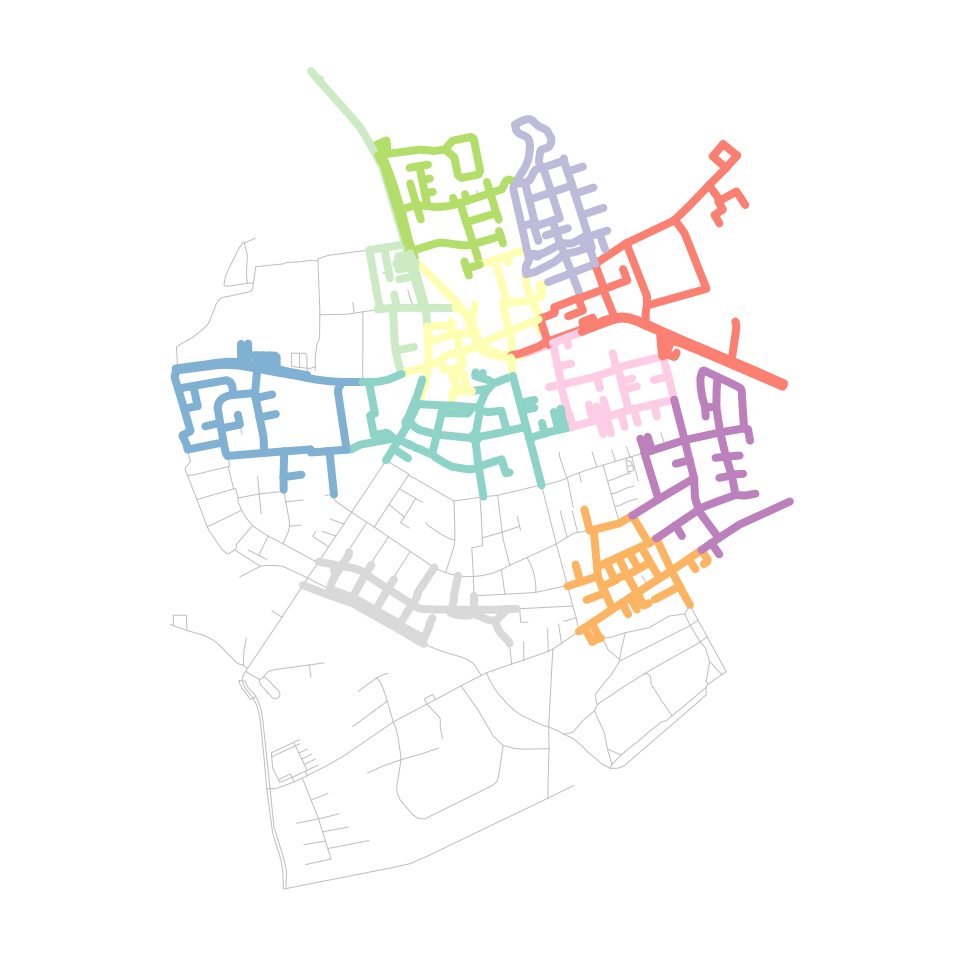
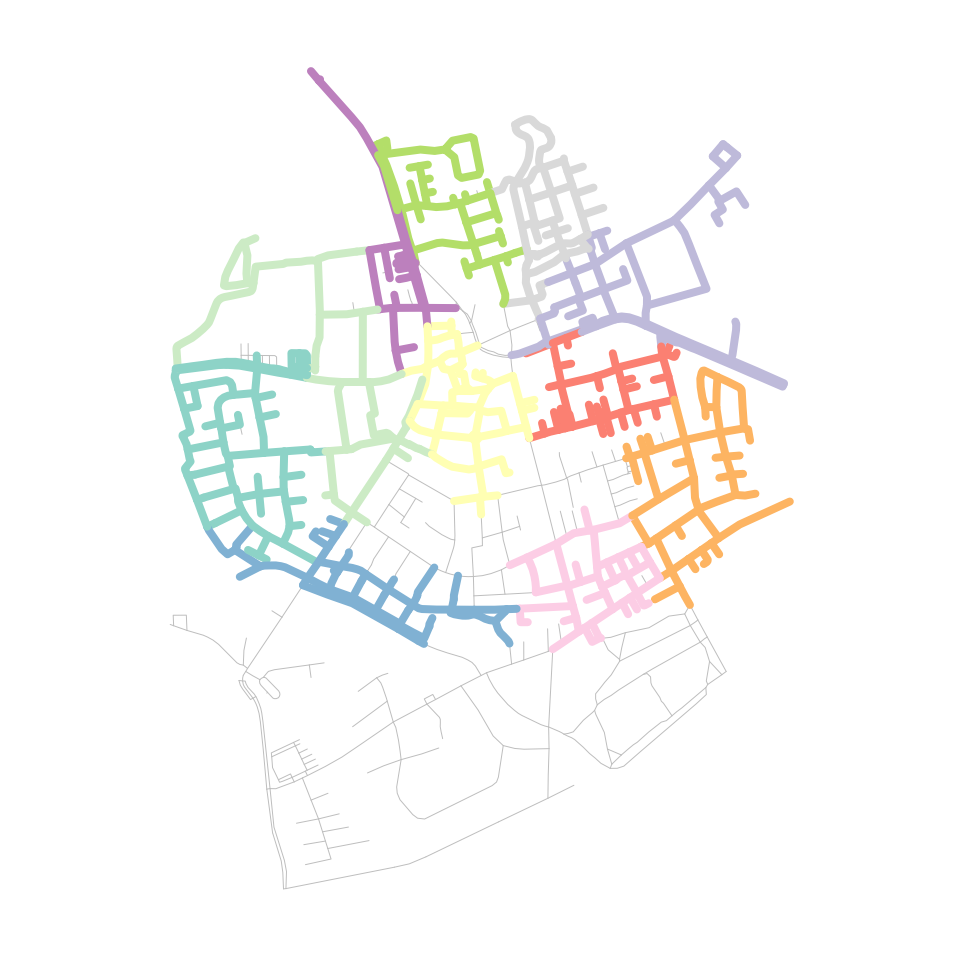
Built site for sfnetworks: 0.6.4@2eb08cf

diff --git a/articles/sfn02_preprocess_clean.html b/articles/sfn02_preprocess_clean.html
@@ -99,7 +99,7 @@
     <div class="page-header toc-ignore">
       <h1 data-toc-skip>2. Network pre-processing and cleaning</h1>
             
-            <h4 data-toc-skip class="date">2024-04-09</h4>
+            <h4 data-toc-skip class="date">2024-04-10</h4>
       
       <small class="dont-index">Source: <a href="https://github.com/luukvdmeer/sfnetworks/blob/HEAD/vignettes/sfn02_preprocess_clean.Rmd" class="external-link"><code>vignettes/sfn02_preprocess_clean.Rmd</code></a></small>
       <div class="hidden name"><code>sfn02_preprocess_clean.Rmd</code></div>
@@ -440,12 +440,12 @@ different combination techniques when simplifying the network.</p>
 <span><span class="co">#&gt; # A tibble: 15 × 7</span></span>
 <span><span class="co">#&gt;    from    to              x  flow type    foo bar  </span></span>
 <span><span class="co">#&gt;   &lt;int&gt; &lt;int&gt;   &lt;LINESTRING&gt; &lt;int&gt; &lt;chr&gt; &lt;int&gt; &lt;chr&gt;</span></span>
-<span><span class="co">#&gt; 1    10     9 (6 1.2, 5.8 1)     7 path      8 c    </span></span>
-<span><span class="co">#&gt; 2    11    10 (6.2 1, 6 1.2)     8 path      4 a    </span></span>
-<span><span class="co">#&gt; 3     9    12 (5.8 1, 6 0.8)     6 path     10 w    </span></span>
-<span><span class="co">#&gt; 4    12    11 (6 0.8, 6.2 1)     3 path     14 i    </span></span>
-<span><span class="co">#&gt; 5    11    15   (6.2 1, 7 1)     1 path      3 l    </span></span>
-<span><span class="co">#&gt; 6    10    13   (6 1.2, 6 2)     1 path      6 u    </span></span>
+<span><span class="co">#&gt; 1    10     9 (6 1.2, 5.8 1)     4 path      3 c    </span></span>
+<span><span class="co">#&gt; 2    11    10 (6.2 1, 6 1.2)     5 path     13 x    </span></span>
+<span><span class="co">#&gt; 3     9    12 (5.8 1, 6 0.8)    10 path      5 t    </span></span>
+<span><span class="co">#&gt; 4    12    11 (6 0.8, 6.2 1)    10 path      1 k    </span></span>
+<span><span class="co">#&gt; 5    11    15   (6.2 1, 7 1)     5 path      6 i    </span></span>
+<span><span class="co">#&gt; 6    10    13   (6 1.2, 6 2)     3 path     11 m    </span></span>
 <span><span class="co">#&gt; # ℹ 9 more rows</span></span>
 <span><span class="co">#&gt; #</span></span>
 <span><span class="co">#&gt; # A tibble: 15 × 1</span></span>
@@ -470,8 +470,8 @@ different combination techniques when simplifying the network.</p>
 <span><span class="co">#&gt; # A tibble: 2 × 7</span></span>
 <span><span class="co">#&gt;    from    to               x  flow type    foo bar  </span></span>
 <span><span class="co">#&gt;   &lt;int&gt; &lt;int&gt;    &lt;LINESTRING&gt; &lt;int&gt; &lt;chr&gt; &lt;int&gt; &lt;chr&gt;</span></span>
-<span><span class="co">#&gt; 1     6     7      (4 3, 4 2)     1 path      5 x    </span></span>
-<span><span class="co">#&gt; 2     6     7 (4 3, 5 2, 4 2)     7 road     11 t</span></span></code></pre>
+<span><span class="co">#&gt; 1     6     7      (4 3, 4 2)     5 path     15 q    </span></span>
+<span><span class="co">#&gt; 2     6     7 (4 3, 5 2, 4 2)     8 road     14 w</span></span></code></pre>
 <div class="sourceCode" id="cb10"><pre class="downlit sourceCode r">
 <code class="sourceCode R"><span><span class="co"># Define how we want to combine the attributes.</span></span>
 <span><span class="co"># For the flows:</span></span>
@@ -502,7 +502,7 @@ different combination techniques when simplifying the network.</p>
 <span><span class="co">#&gt; # A tibble: 1 × 6</span></span>
 <span><span class="co">#&gt;    from    to            x  flow type    .tidygraph_edge_index</span></span>
 <span><span class="co">#&gt;   &lt;int&gt; &lt;int&gt; &lt;LINESTRING&gt; &lt;dbl&gt; &lt;chr&gt;   &lt;list&gt;               </span></span>
-<span><span class="co">#&gt; 1     6     7   (4 3, 4 2)     8 unknown &lt;int [2]&gt;</span></span></code></pre>
+<span><span class="co">#&gt; 1     6     7   (4 3, 4 2)    13 unknown &lt;int [2]&gt;</span></span></code></pre>
 <div class="sourceCode" id="cb11"><pre class="downlit sourceCode r">
 <code class="sourceCode R"><span><span class="fu"><a href="https://rdrr.io/r/graphics/plot.default.html" class="external-link">plot</a></span><span class="op">(</span><span class="fu"><a href="https://r-spatial.github.io/sf/reference/st_geometry.html" class="external-link">st_geometry</a></span><span class="op">(</span><span class="va">net</span>, <span class="st">"edges"</span><span class="op">)</span>, col <span class="op">=</span> <span class="fu">edge_colors</span><span class="op">(</span><span class="va">net</span><span class="op">)</span>, lwd <span class="op">=</span> <span class="fl">4</span><span class="op">)</span></span>
 <span><span class="fu"><a href="https://rdrr.io/r/graphics/plot.default.html" class="external-link">plot</a></span><span class="op">(</span><span class="fu"><a href="https://r-spatial.github.io/sf/reference/st_geometry.html" class="external-link">st_geometry</a></span><span class="op">(</span><span class="va">net</span>, <span class="st">"nodes"</span><span class="op">)</span>, pch <span class="op">=</span> <span class="fl">20</span>, cex <span class="op">=</span> <span class="fl">1.5</span>, add <span class="op">=</span> <span class="cn">TRUE</span><span class="op">)</span></span>
@@ -636,9 +636,9 @@ columns are not attributes!</p>
 <span><span class="co">#&gt;    from    to               x  flow type    .tidygraph_edge_index</span></span>
 <span><span class="co">#&gt;   &lt;int&gt; &lt;int&gt;    &lt;LINESTRING&gt; &lt;dbl&gt; &lt;chr&gt;                   &lt;int&gt;</span></span>
 <span><span class="co">#&gt; 1     1     2 (0 1, 1 1, 2 1)     5 road                        1</span></span>
-<span><span class="co">#&gt; 2     2     3      (2 1, 3 1)     8 road                        2</span></span>
-<span><span class="co">#&gt; 3     8     9      (4 3, 4 2)     8 unknown                     5</span></span>
-<span><span class="co">#&gt; 4     9     4      (4 2, 4 1)     4 road                        6</span></span></code></pre>
+<span><span class="co">#&gt; 2     2     3      (2 1, 3 1)    10 road                        2</span></span>
+<span><span class="co">#&gt; 3     8     9      (4 3, 4 2)    13 unknown                     5</span></span>
+<span><span class="co">#&gt; 4     9     4      (4 2, 4 1)     9 road                        6</span></span></code></pre>
 <div class="sourceCode" id="cb15"><pre class="downlit sourceCode r">
 <code class="sourceCode R"><span></span>
 <span><span class="co"># Define how we want to combine the attributes.</span></span>
@@ -668,8 +668,8 @@ columns are not attributes!</p>
 <span><span class="co">#&gt; # A tibble: 2 × 6</span></span>
 <span><span class="co">#&gt;    from    to  flow type    .tidygraph_edge_index                    x</span></span>
 <span><span class="co">#&gt;   &lt;int&gt; &lt;int&gt; &lt;dbl&gt; &lt;chr&gt;   &lt;list&gt;                        &lt;LINESTRING&gt;</span></span>
-<span><span class="co">#&gt; 1     1     2    13 road    &lt;int [2]&gt;             (0 1, 1 1, 2 1, 3 1)</span></span>
-<span><span class="co">#&gt; 2     7     3    12 unknown &lt;int [2]&gt;                  (4 3, 4 2, 4 1)</span></span></code></pre>
+<span><span class="co">#&gt; 1     1     2    15 road    &lt;int [2]&gt;             (0 1, 1 1, 2 1, 3 1)</span></span>
+<span><span class="co">#&gt; 2     7     3    22 unknown &lt;int [2]&gt;                  (4 3, 4 2, 4 1)</span></span></code></pre>
 <p>Secondly, it is possible to only remove those pseudo nodes for which
 attributes among their incident edges are equal. To do this, set
 <code>require_equal = TRUE</code>. Optionally, you can provide a list of
@@ -788,9 +788,9 @@ for the sake of completeness, we will still show it:</p>
 <span><span class="co">#&gt; # A tibble: 14 × 6</span></span>
 <span><span class="co">#&gt;    from    to  flow type  .tidygraph_edge_index            x</span></span>
 <span><span class="co">#&gt;   &lt;int&gt; &lt;int&gt; &lt;dbl&gt; &lt;chr&gt; &lt;list&gt;                &lt;LINESTRING&gt;</span></span>
-<span><span class="co">#&gt; 1     2     3     8 road  &lt;int [1]&gt;               (3 1, 4 1)</span></span>
-<span><span class="co">#&gt; 2     3     4     8 path  &lt;int [1]&gt;             (4 1, 5.8 1)</span></span>
-<span><span class="co">#&gt; 3     5     2     4 road  &lt;int [1]&gt;               (3 2, 3 1)</span></span>
+<span><span class="co">#&gt; 1     2     3    10 road  &lt;int [1]&gt;               (3 1, 4 1)</span></span>
+<span><span class="co">#&gt; 2     3     4     7 path  &lt;int [1]&gt;             (4 1, 5.8 1)</span></span>
+<span><span class="co">#&gt; 3     5     2     5 road  &lt;int [1]&gt;               (3 2, 3 1)</span></span>
 <span><span class="co">#&gt; # ℹ 11 more rows</span></span></code></pre>
 <p>The combination of the cluster index and the component index can now
 be used to define the groups of nodes to be contracted. Nodes that form
@@ -859,8 +859,8 @@ columns are not attributes!</p>
 <span><span class="co">#&gt;         x .tidygraph_node_index   cls   cmp is_priority</span></span>
 <span><span class="co">#&gt;   &lt;POINT&gt;                 &lt;int&gt; &lt;int&gt; &lt;int&gt; &lt;lgl&gt;      </span></span>
 <span><span class="co">#&gt; 1 (5.8 1)                     5     4     1 FALSE      </span></span>
-<span><span class="co">#&gt; 2 (6 0.8)                    11     4     1 TRUE       </span></span>
-<span><span class="co">#&gt; 3 (6 1.2)                    12     4     1 TRUE       </span></span>
+<span><span class="co">#&gt; 2 (6 0.8)                    11     4     1 FALSE      </span></span>
+<span><span class="co">#&gt; 3 (6 1.2)                    12     4     1 FALSE      </span></span>
 <span><span class="co">#&gt; 4 (6.2 1)                    14     4     1 TRUE</span></span></code></pre>
 <div class="sourceCode" id="cb22"><pre class="downlit sourceCode r">
 <code class="sourceCode R"><span><span class="co"># Define how we want to combine the attributes.</span></span>

diff --git a/articles/sfn05_morphers.html b/articles/sfn05_morphers.html
@@ -99,7 +99,7 @@
     <div class="page-header toc-ignore">
       <h1 data-toc-skip>5. Spatial morphers</h1>
             
-            <h4 data-toc-skip class="date">2024-04-09</h4>
+            <h4 data-toc-skip class="date">2024-04-10</h4>
       
       <small class="dont-index">Source: <a href="https://github.com/luukvdmeer/sfnetworks/blob/HEAD/vignettes/sfn05_morphers.Rmd" class="external-link"><code>vignettes/sfn05_morphers.Rmd</code></a></small>
       <div class="hidden name"><code>sfn05_morphers.Rmd</code></div>
@@ -184,9 +184,9 @@ is assigned to, and automatically merge those changes back into the
 <span><span class="co">#&gt; # A tibble: 851 × 6</span></span>
 <span><span class="co">#&gt;    from    to name                  type                          geometry group</span></span>
 <span><span class="co">#&gt;   &lt;int&gt; &lt;int&gt; &lt;chr&gt;                 &lt;fct&gt;                 &lt;LINESTRING [m]&gt; &lt;int&gt;</span></span>
-<span><span class="co">#&gt; 1     1     2 Havixbecker Strasse   residential (4151491 3207923, 4151474…     2</span></span>
+<span><span class="co">#&gt; 1     1     2 Havixbecker Strasse   residential (4151491 3207923, 4151474…    17</span></span>
 <span><span class="co">#&gt; 2     3     4 Pienersallee          secondary   (4151398 3207777, 4151390…     2</span></span>
-<span><span class="co">#&gt; 3     5     6 Schulte-Bernd-Strasse residential (4151408 3207539, 4151417…     1</span></span>
+<span><span class="co">#&gt; 3     5     6 Schulte-Bernd-Strasse residential (4151408 3207539, 4151417…     2</span></span>
 <span><span class="co">#&gt; # ℹ 848 more rows</span></span></code></pre>
 <div class="sourceCode" id="cb3"><pre class="downlit sourceCode r">
 <code class="sourceCode R"><span><span class="co"># The algorithm detected 34 communities.</span></span>
@@ -195,7 +195,7 @@ is assigned to, and automatically merge those changes back into the
 <span>  <span class="fu"><a href="https://dplyr.tidyverse.org/reference/pull.html" class="external-link">pull</a></span><span class="op">(</span><span class="va">group</span><span class="op">)</span> <span class="op"><a href="https://magrittr.tidyverse.org/reference/pipe.html" class="external-link">%&gt;%</a></span></span>
 <span>  <span class="fu"><a href="https://rdrr.io/r/base/unique.html" class="external-link">unique</a></span><span class="op">(</span><span class="op">)</span> <span class="op"><a href="https://magrittr.tidyverse.org/reference/pipe.html" class="external-link">%&gt;%</a></span></span>
 <span>  <span class="fu"><a href="https://rdrr.io/r/base/length.html" class="external-link">length</a></span><span class="op">(</span><span class="op">)</span></span>
-<span><span class="co">#&gt; [1] 34</span></span></code></pre></div>
+<span><span class="co">#&gt; [1] 33</span></span></code></pre></div>
 <p>In all grouping functions in <code>tidygraph</code>, the group index
 <code>1</code> belongs the largest group, the index <code>2</code> to
 the second largest group, et cetera. Lets plot only the first third of
@@ -622,8 +622,8 @@ to the geometry of the first set member.</p>
 <span><span class="co">#&gt; # A tibble: 2 × 6</span></span>
 <span><span class="co">#&gt;    from    to name         type                                   geometry  flow</span></span>
 <span><span class="co">#&gt;   &lt;int&gt; &lt;int&gt; &lt;chr&gt;        &lt;fct&gt;                          &lt;LINESTRING [m]&gt; &lt;int&gt;</span></span>
-<span><span class="co">#&gt; 1   118   119 NA           service (4150716 3207080, 4150715 3207108, 415…    98</span></span>
-<span><span class="co">#&gt; 2   118   119 Pienersallee service      (4150716 3207080, 4150752 3207067)    28</span></span></code></pre>
+<span><span class="co">#&gt; 1   118   119 NA           service (4150716 3207080, 4150715 3207108, 415…    95</span></span>
+<span><span class="co">#&gt; 2   118   119 Pienersallee service      (4150716 3207080, 4150752 3207067)    43</span></span></code></pre>
 <div class="sourceCode" id="cb16"><pre class="downlit sourceCode r">
 <code class="sourceCode R"><span><span class="co"># Simplify the network.</span></span>
 <span><span class="co"># We summarise the flow attribute by taking the sum of the merged edge flows.</span></span>
@@ -647,7 +647,7 @@ to the geometry of the first set member.</p>
 <span><span class="co">#&gt; # A tibble: 1 × 7</span></span>
 <span><span class="co">#&gt;    from    to name  type                    geometry  flow .tidygraph_edge_index</span></span>
 <span><span class="co">#&gt;   &lt;int&gt; &lt;int&gt; &lt;chr&gt; &lt;fct&gt;           &lt;LINESTRING [m]&gt; &lt;dbl&gt; &lt;list&gt;               </span></span>
-<span><span class="co">#&gt; 1   118   119 NA    servi… (4150716 3207080, 415071…   126 &lt;int [2]&gt;</span></span></code></pre>
+<span><span class="co">#&gt; 1   118   119 NA    servi… (4150716 3207080, 415071…   138 &lt;int [2]&gt;</span></span></code></pre>
 </div>
 <div class="section level3">
 <h3 id="to_spatial_smooth">to_spatial_smooth<a class="anchor" aria-label="anchor" href="#to_spatial_smooth"></a>
@@ -771,12 +771,12 @@ example just to get an idea of how this would work:</p>
 <span><span class="co">#&gt; # A tibble: 701 × 3</span></span>
 <span><span class="co">#&gt;            geometry building post_code</span></span>
 <span><span class="co">#&gt;         &lt;POINT [m]&gt; &lt;lgl&gt;        &lt;dbl&gt;</span></span>
-<span><span class="co">#&gt; 1 (4151491 3207923) FALSE           NA</span></span>
+<span><span class="co">#&gt; 1 (4151491 3207923) TRUE          1020</span></span>
 <span><span class="co">#&gt; 2 (4151474 3207946) FALSE           NA</span></span>
 <span><span class="co">#&gt; 3 (4151398 3207777) TRUE          1020</span></span>
 <span><span class="co">#&gt; 4 (4151370 3207673) FALSE           NA</span></span>
 <span><span class="co">#&gt; 5 (4151408 3207539) FALSE           NA</span></span>
-<span><span class="co">#&gt; 6 (4151421 3207592) FALSE           NA</span></span>
+<span><span class="co">#&gt; 6 (4151421 3207592) TRUE          1020</span></span>
 <span><span class="co">#&gt; # ℹ 695 more rows</span></span>
 <span><span class="co">#&gt; #</span></span>
 <span><span class="co">#&gt; # A tibble: 851 × 5</span></span>
@@ -833,7 +833,7 @@ requires a geographic CRS for that.</p>
 <span><span class="co">#&gt; # A tibble: 701 × 2</span></span>
 <span><span class="co">#&gt;            geometry building</span></span>
 <span><span class="co">#&gt;         &lt;POINT [m]&gt; &lt;lgl&gt;   </span></span>
-<span><span class="co">#&gt; 1 (4151491 3207923) FALSE   </span></span>
+<span><span class="co">#&gt; 1 (4151491 3207923) TRUE    </span></span>
 <span><span class="co">#&gt; 2 (4151474 3207946) FALSE   </span></span>
 <span><span class="co">#&gt; 3 (4151398 3207777) TRUE    </span></span>
 <span><span class="co">#&gt; # ℹ 698 more rows</span></span></code></pre>

diff --git a/news/index.html b/news/index.html
@@ -70,7 +70,7 @@
     </div>
 
     <div class="section level2">
-<h2 class="page-header" data-toc-text="0.6.4" id="sfnetworks-v064">sfnetworks v0.6.4<a class="anchor" aria-label="anchor" href="#sfnetworks-v064"></a></h2>
+<h2 class="page-header" data-toc-text="0.6.4" id="sfnetworks-v064">sfnetworks v0.6.4<small>2024-04-09</small><a class="anchor" aria-label="anchor" href="#sfnetworks-v064"></a></h2>
 <div class="section level4">
 <h4 id="new-features-0-6-4">New features<a class="anchor" aria-label="anchor" href="#new-features-0-6-4"></a></h4>
 <ul><li>The <code><a href="../reference/sfnetwork.html">sfnetwork()</a></code> construction function now has an argument <code>message</code> which can be set to <code>FALSE</code> when the network validity checks should not print informational messages to the console. Refs <a href="https://github.com/luukvdmeer/sfnetworks/issues/261" class="external-link">#261</a>.</li>

diff --git a/articles/sfn03_join_filter.html b/articles/sfn03_join_filter.html
@@ -99,7 +99,7 @@
     <div class="page-header toc-ignore">
       <h1 data-toc-skip>3. Spatial joins and filters</h1>
             
-            <h4 data-toc-skip class="date">2024-04-09</h4>
+            <h4 data-toc-skip class="date">2024-04-10</h4>
       
       <small class="dont-index">Source: <a href="https://github.com/luukvdmeer/sfnetworks/blob/HEAD/vignettes/sfn03_join_filter.Rmd" class="external-link"><code>vignettes/sfn03_join_filter.Rmd</code></a></small>
       <div class="hidden name"><code>sfn03_join_filter.Rmd</code></div>

diff --git a/articles/sfn01_structure.html b/articles/sfn01_structure.html
@@ -99,7 +99,7 @@
     <div class="page-header toc-ignore">
       <h1 data-toc-skip>1. The sfnetwork data structure</h1>
             
-            <h4 data-toc-skip class="date">2024-04-09</h4>
+            <h4 data-toc-skip class="date">2024-04-10</h4>
       
       <small class="dont-index">Source: <a href="https://github.com/luukvdmeer/sfnetworks/blob/HEAD/vignettes/sfn01_structure.Rmd" class="external-link"><code>vignettes/sfn01_structure.Rmd</code></a></small>
       <div class="hidden name"><code>sfn01_structure.Rmd</code></div>

diff --git a/articles/sfn04_routing.html b/articles/sfn04_routing.html
@@ -99,7 +99,7 @@
     <div class="page-header toc-ignore">
       <h1 data-toc-skip>4. Routing</h1>
             
-            <h4 data-toc-skip class="date">2024-04-09</h4>
+            <h4 data-toc-skip class="date">2024-04-10</h4>
       
       <small class="dont-index">Source: <a href="https://github.com/luukvdmeer/sfnetworks/blob/HEAD/vignettes/sfn04_routing.Rmd" class="external-link"><code>vignettes/sfn04_routing.Rmd</code></a></small>
       <div class="hidden name"><code>sfn04_routing.Rmd</code></div>
